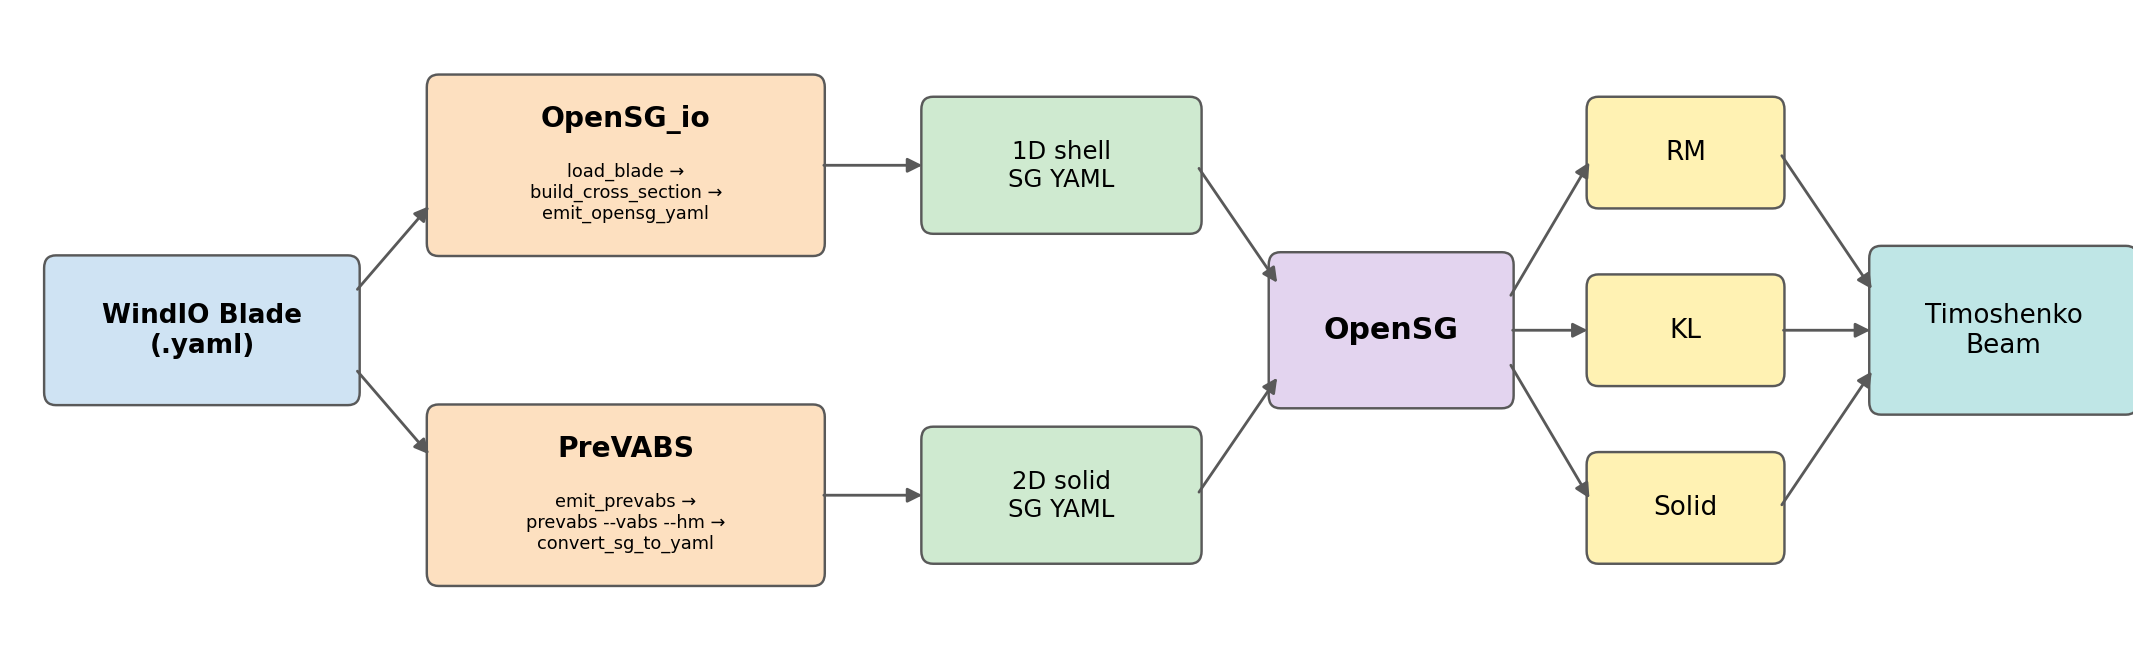
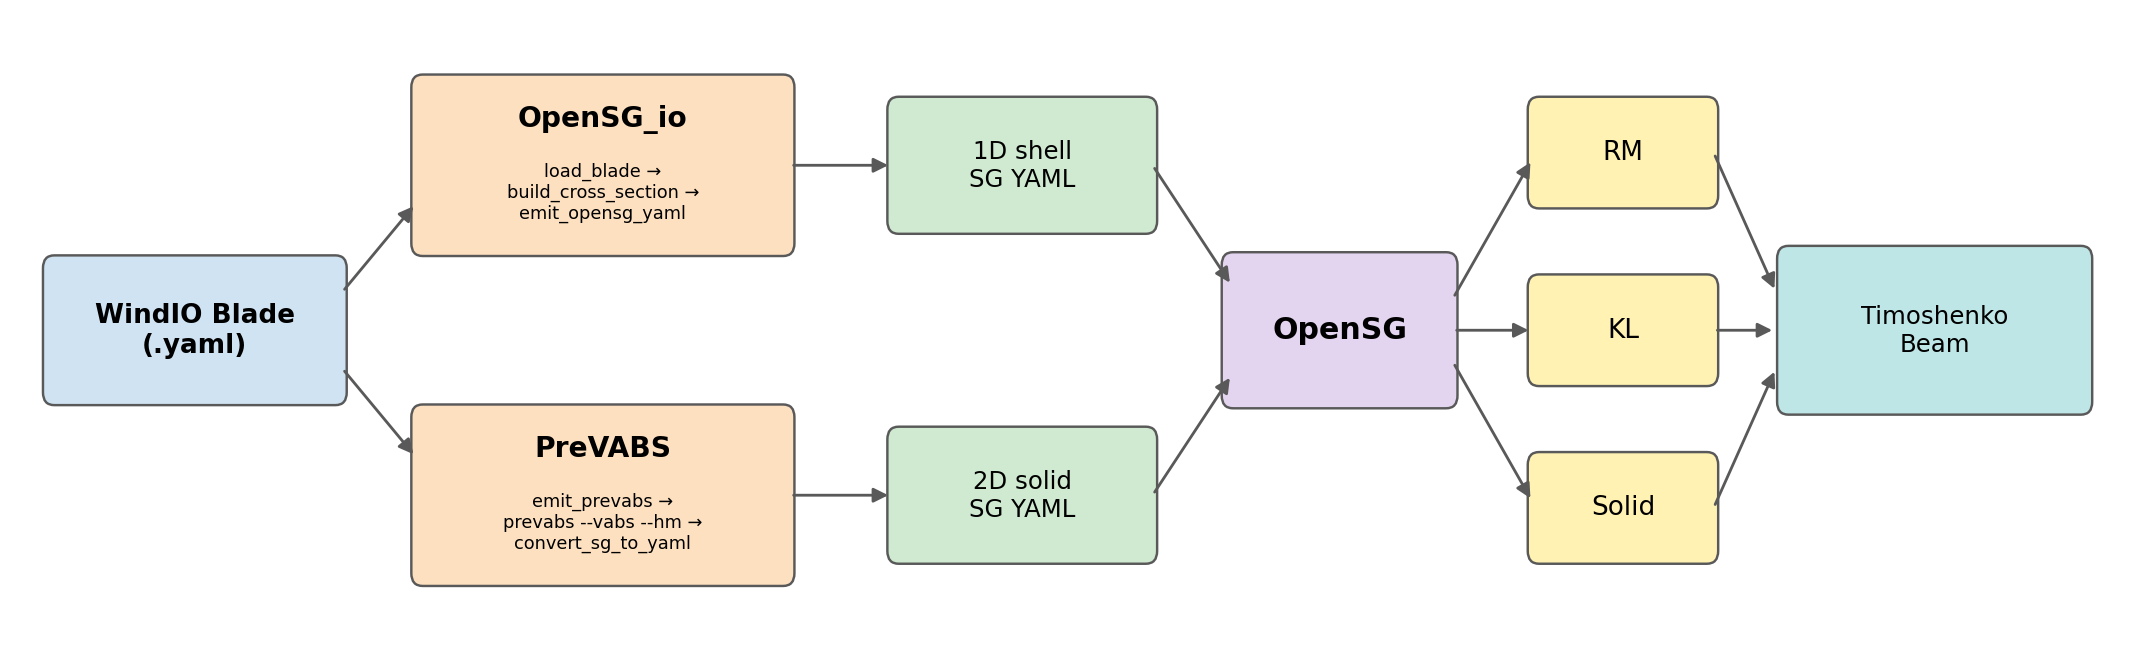
Fix the Timoshenko box overflow in the windIO flowchart (wider box, right margin); regenerate the r=0.5 cross-section figure with the trimmed panel titles

diff --git a/scripts/build_iea22_flowchart.py b/scripts/build_iea22_flowchart.py
@@ -5,7 +5,7 @@ import matplotlib.pyplot as plt
 from matplotlib.patches import FancyBboxPatch, FancyArrowPatch
 
 fig, ax = plt.subplots(figsize=(16, 5.0))
-ax.set_xlim(0, 18); ax.set_ylim(0, 5); ax.axis("off")
+ax.set_xlim(0, 18.7); ax.set_ylim(0, 5); ax.axis("off")
 BLUE, ORANGE, GREEN, PURPLE, YEL, TEAL = "#cfe3f3", "#fde0c0", "#cfead0", "#e3d4ef", "#fff2b3", "#bfe6e6"
 
 
@@ -35,13 +35,13 @@ box(11.7, 2.5, 2.0, 1.15, "OpenSG", PURPLE, 16, "bold")
 box(14.2, 3.9, 1.6, 0.8, "RM", YEL, 14)
 box(14.2, 2.5, 1.6, 0.8, "KL", YEL, 14)
 box(14.2, 1.1, 1.6, 0.8, "Solid", YEL, 14)
-box(16.9, 2.5, 2.2, 1.25, "Timoshenko\nBeam", TEAL, 14)
+box(16.95, 2.5, 2.7, 1.25, "Timoshenko\nBeam", TEAL, 13)
 
 arrow(2.9, 2.8, 3.55, 3.5); arrow(2.9, 2.2, 3.55, 1.5)
 arrow(6.85, 3.8, 7.75, 3.8); arrow(6.85, 1.2, 7.75, 1.2)
 arrow(10.05, 3.8, 10.75, 2.85); arrow(10.05, 1.2, 10.75, 2.15)
 arrow(12.7, 2.75, 13.4, 3.85); arrow(12.7, 2.5, 13.4, 2.5); arrow(12.7, 2.25, 13.4, 1.15)
-arrow(15.0, 3.9, 15.8, 2.8); arrow(15.0, 2.5, 15.8, 2.5); arrow(15.0, 1.1, 15.8, 2.2)
+arrow(15.0, 3.9, 15.55, 2.8); arrow(15.0, 2.5, 15.55, 2.5); arrow(15.0, 1.1, 15.55, 2.2)
 fig.tight_layout()
 fig.savefig(r"Y:\claude_tmp\windio_workflow.png", dpi=105, bbox_inches="tight")
 fig.savefig(r"C:\Users\bagla0\OneDrive - purdue.edu\2026_195\Claude_code\docs\tutorials\_img\windio_workflow.png",